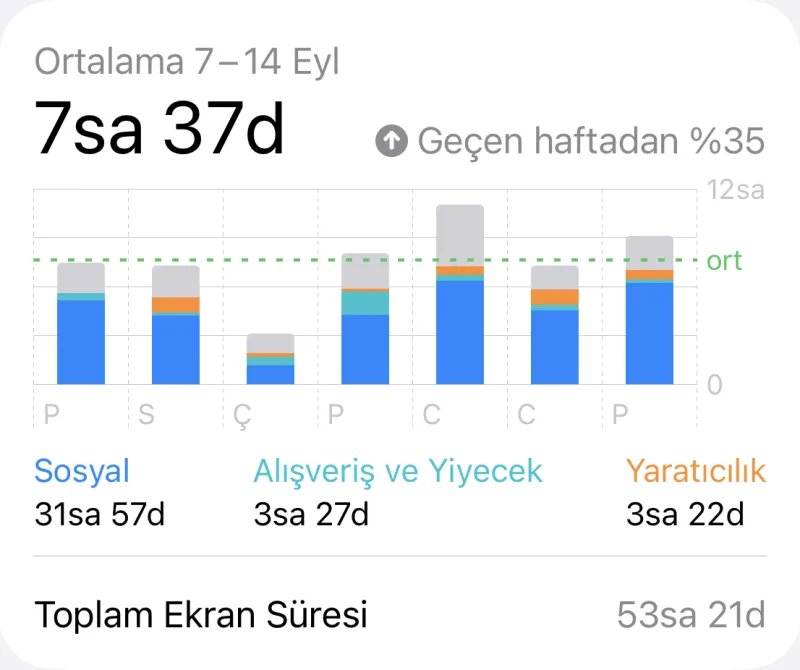
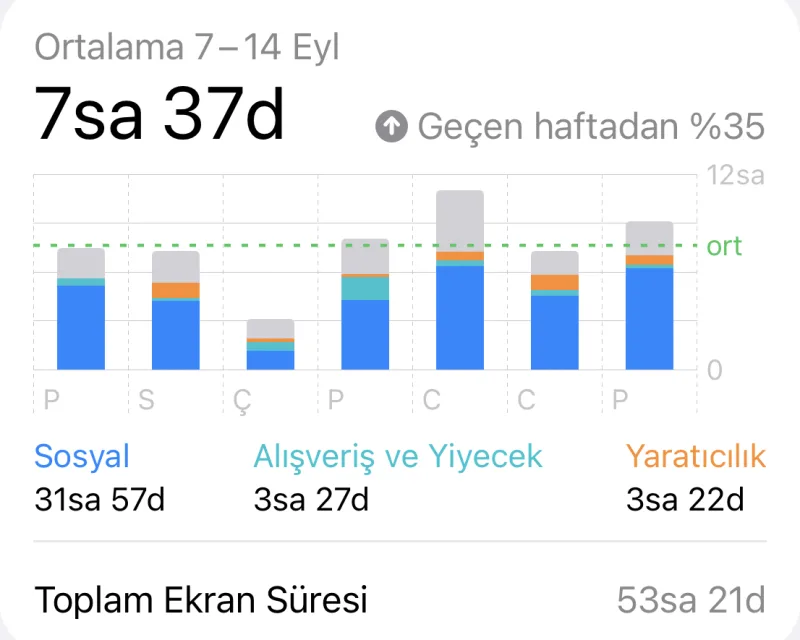
fix(web): both friends' screen time cards at the same size
Claude-Session: https://claude.ai/code/session_01PE2ufhKG5TLuehkWcaZPHT

diff --git a/apps/web/src/routes/index.tsx b/apps/web/src/routes/index.tsx
@@ -559,7 +559,7 @@ function HomePage() {
                   },
                   {
                     alt: m.home_story_shot_friend_2(),
-                    height: 670,
+                    height: 640,
                     src: '/media/screentime-friends/friend-2-week-sep-07.webp',
                     width: 800,
                   },
